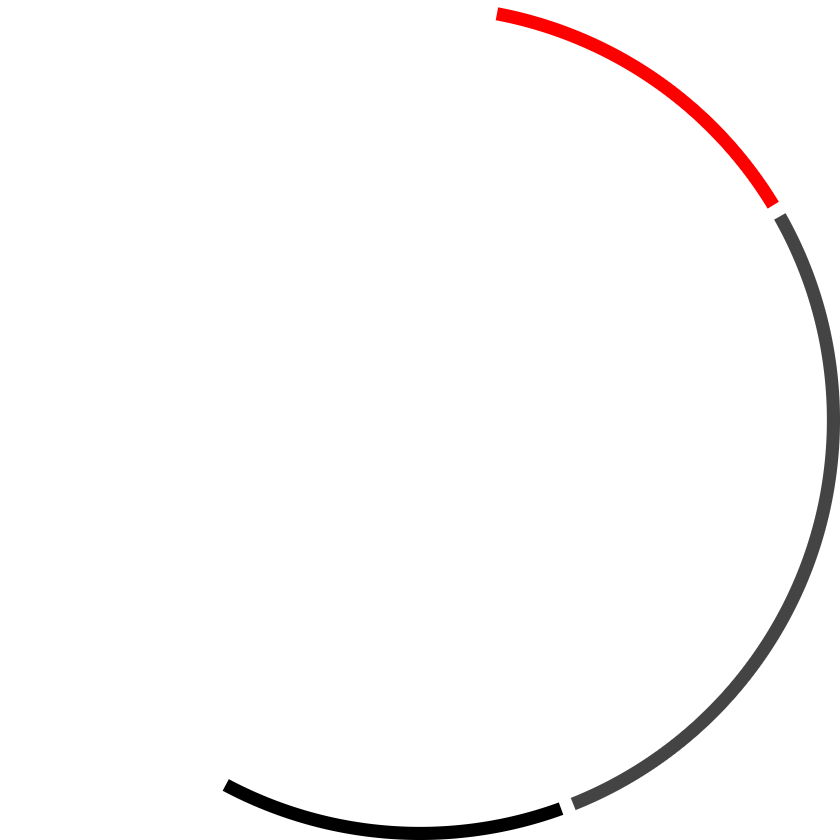
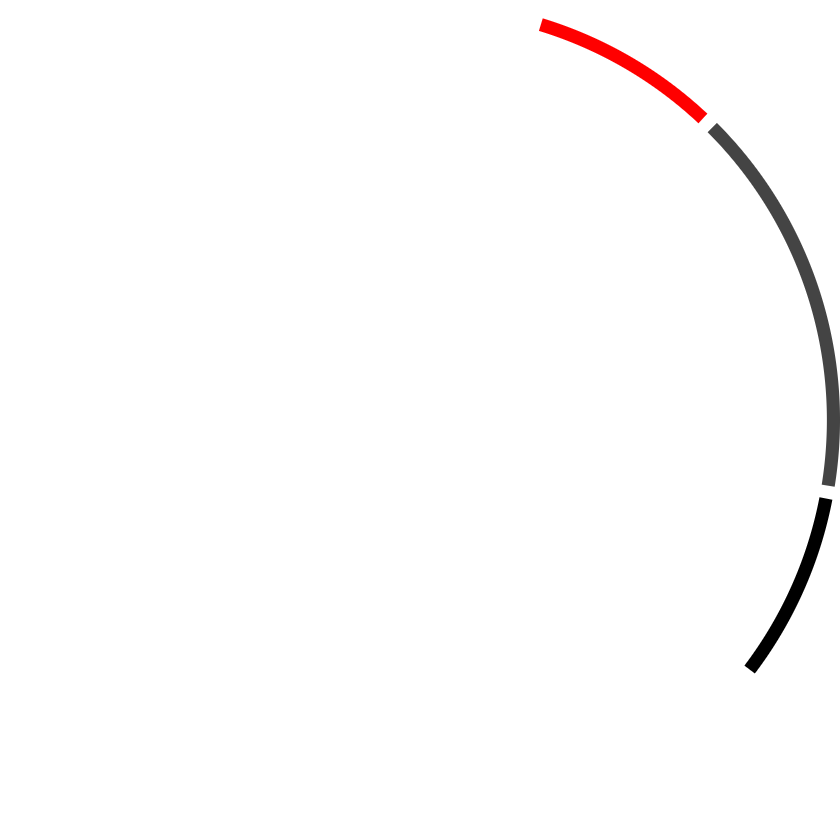
[Rally] Updates to alpha11

diff --git a/Rally/app/src/main/java/com/example/compose/rally/ui/components/RallyAnimatedCircle.kt b/Rally/app/src/main/java/com/example/compose/rally/ui/components/RallyAnimatedCircle.kt
@@ -17,13 +17,15 @@
 package com.example.compose.rally.ui.components
 
 import androidx.compose.animation.core.CubicBezierEasing
-import androidx.compose.animation.core.FloatPropKey
 import androidx.compose.animation.core.LinearOutSlowInEasing
-import androidx.compose.animation.core.transitionDefinition
+import androidx.compose.animation.core.MutableTransitionState
+import androidx.compose.animation.core.animateFloat
 import androidx.compose.animation.core.tween
-import androidx.compose.animation.transition
+import androidx.compose.animation.core.updateTransition
 import androidx.compose.foundation.Canvas
 import androidx.compose.runtime.Composable
+import androidx.compose.runtime.getValue
+import androidx.compose.runtime.remember
 import androidx.compose.ui.Modifier
 import androidx.compose.ui.geometry.Offset
 import androidx.compose.ui.geometry.Size
@@ -33,8 +35,6 @@ import androidx.compose.ui.platform.AmbientDensity
 import androidx.compose.ui.unit.dp
 
 private const val DividerLengthInDegrees = 1.8f
-private val AngleOffset = FloatPropKey("angle")
-private val Shift = FloatPropKey("shift")
 
 /**
  * A donut chart that animates when loaded.
@@ -45,12 +45,43 @@ fun AnimatedCircle(
     colors: List<Color>,
     modifier: Modifier = Modifier
 ) {
+    val currentState = remember {
+        MutableTransitionState(AnimatedCircleProgress.START)
+            .apply { targetState = AnimatedCircleProgress.END }
+    }
     val stroke = with(AmbientDensity.current) { Stroke(5.dp.toPx()) }
-    val state = transition(
-        definition = CircularTransition,
-        initState = AnimatedCircleProgress.START,
-        toState = AnimatedCircleProgress.END
-    )
+    val transition = updateTransition(currentState)
+    val angleOffset by transition.animateFloat(
+        transitionSpec = {
+            tween(
+                delayMillis = 500,
+                durationMillis = 900,
+                easing = LinearOutSlowInEasing
+            )
+        }
+    ) { progress ->
+        if (progress == AnimatedCircleProgress.START) {
+            0f
+        } else {
+            360f
+        }
+    }
+    val shift by transition.animateFloat(
+        transitionSpec = {
+            tween(
+                delayMillis = 500,
+                durationMillis = 900,
+                easing = CubicBezierEasing(0f, 0.75f, 0.35f, 0.85f)
+            )
+        }
+    ) { progress ->
+        if (progress == AnimatedCircleProgress.START) {
+            0f
+        } else {
+            30f
+        }
+    }
+
     Canvas(modifier) {
         val innerRadius = (size.minDimension - stroke.width) / 2
         val halfSize = size / 2.0f
@@ -59,9 +90,9 @@ fun AnimatedCircle(
             halfSize.height - innerRadius
         )
         val size = Size(innerRadius * 2, innerRadius * 2)
-        var startAngle = state[Shift] - 90f
+        var startAngle = shift - 90f
         proportions.forEachIndexed { index, proportion ->
-            val sweep = proportion * state[AngleOffset]
+            val sweep = proportion * angleOffset
             drawArc(
                 color = colors[index],
                 startAngle = startAngle + DividerLengthInDegrees / 2,
@@ -76,26 +107,3 @@ fun AnimatedCircle(
     }
 }
 private enum class AnimatedCircleProgress { START, END }
-
-private val CircularTransition = transitionDefinition<AnimatedCircleProgress> {
-    state(AnimatedCircleProgress.START) {
-        this[AngleOffset] = 0f
-        this[Shift] = 0f
-    }
-    state(AnimatedCircleProgress.END) {
-        this[AngleOffset] = 360f
-        this[Shift] = 30f
-    }
-    transition(fromState = AnimatedCircleProgress.START, toState = AnimatedCircleProgress.END) {
-        AngleOffset using tween(
-            delayMillis = 500,
-            durationMillis = 900,
-            easing = CubicBezierEasing(0f, 0.75f, 0.35f, 0.85f)
-        )
-        Shift using tween(
-            delayMillis = 500,
-            durationMillis = 900,
-            easing = LinearOutSlowInEasing
-        )
-    }
-}

diff --git a/Rally/app/src/main/java/com/example/compose/rally/ui/overview/OverviewScreen.kt b/Rally/app/src/main/java/com/example/compose/rally/ui/overview/OverviewScreen.kt
@@ -16,7 +16,6 @@
 
 package com.example.compose.rally.ui.overview
 
-import androidx.compose.foundation.ScrollableColumn
 import androidx.compose.foundation.background
 import androidx.compose.foundation.layout.Arrangement
 import androidx.compose.foundation.layout.Column
@@ -26,6 +25,8 @@ import androidx.compose.foundation.layout.Spacer
 import androidx.compose.foundation.layout.fillMaxWidth
 import androidx.compose.foundation.layout.padding
 import androidx.compose.foundation.layout.preferredHeight
+import androidx.compose.foundation.rememberScrollState
+import androidx.compose.foundation.verticalScroll
 import androidx.compose.material.Card
 import androidx.compose.material.Icon
 import androidx.compose.material.IconButton
@@ -55,7 +56,11 @@ import com.example.compose.rally.ui.components.formatAmount
 
 @Composable
 fun OverviewBody(onScreenChange: (RallyScreen) -> Unit = {}) {
-    ScrollableColumn(contentPadding = PaddingValues(16.dp)) {
+    Column(
+        modifier = Modifier
+            .padding(16.dp)
+            .verticalScroll(rememberScrollState())
+    ) {
         AlertCard()
         Spacer(Modifier.preferredHeight(RallyDefaultPadding))
         AccountsCard(onScreenChange)
@@ -97,7 +102,9 @@ private fun AlertCard() {
 @Composable
 private fun AlertHeader(onClickSeeAll: () -> Unit) {
     Row(
-        modifier = Modifier.padding(RallyDefaultPadding).fillMaxWidth(),
+        modifier = Modifier
+            .padding(RallyDefaultPadding)
+            .fillMaxWidth(),
         horizontalArrangement = Arrangement.SpaceBetween
     ) {
         Text(
@@ -133,7 +140,7 @@ private fun AlertItem(message: String) {
             onClick = {},
             modifier = Modifier.align(Alignment.Top)
         ) {
-            Icon(Icons.Filled.Sort)
+            Icon(Icons.Filled.Sort, contentDescription = stringResource(id = R.string.sort))
         }
     }
 }
@@ -239,7 +246,9 @@ private fun BillsCard(onScreenChange: (RallyScreen) -> Unit) {
 private fun SeeAllButton(onClick: () -> Unit) {
     TextButton(
         onClick = onClick,
-        modifier = Modifier.preferredHeight(44.dp).fillMaxWidth()
+        modifier = Modifier
+            .preferredHeight(44.dp)
+            .fillMaxWidth()
     ) {
         Text(stringResource(R.string.see_all))
     }

diff --git a/Rally/app/src/main/java/com/example/compose/rally/ui/components/TopAppBar.kt b/Rally/app/src/main/java/com/example/compose/rally/ui/components/TopAppBar.kt
@@ -16,10 +16,11 @@
 
 package com.example.compose.rally.ui.components
 
-import androidx.compose.animation.animateAsState
+import androidx.compose.animation.animateColorAsState
 import androidx.compose.animation.animateContentSize
 import androidx.compose.animation.core.LinearEasing
 import androidx.compose.animation.core.tween
+import androidx.compose.foundation.InteractionState
 import androidx.compose.foundation.layout.Row
 import androidx.compose.foundation.layout.Spacer
 import androidx.compose.foundation.layout.fillMaxWidth
@@ -82,7 +83,7 @@ private fun RallyTab(
             delayMillis = TabFadeInAnimationDelay
         )
     }
-    val tabTintColor by animateAsState(
+    val tabTintColor by animateColorAsState(
         targetValue = if (selected) color else color.copy(alpha = InactiveTabOpacity),
         animationSpec = animSpec
     )
@@ -94,6 +95,7 @@ private fun RallyTab(
             .selectable(
                 selected = selected,
                 onClick = onSelected,
+                interactionState = remember { InteractionState() },
                 indication = rememberRipple(
                     bounded = false,
                     radius = Dp.Unspecified,
@@ -101,7 +103,7 @@ private fun RallyTab(
                 )
             )
     ) {
-        Icon(imageVector = icon, tint = tabTintColor)
+        Icon(imageVector = icon, contentDescription = null, tint = tabTintColor)
         if (selected) {
             Spacer(Modifier.preferredWidth(12.dp))
             Text(text, color = tabTintColor)

diff --git a/Rally/app/src/main/java/com/example/compose/rally/ui/components/DetailsScreen.kt b/Rally/app/src/main/java/com/example/compose/rally/ui/components/DetailsScreen.kt
@@ -16,13 +16,14 @@
 
 package com.example.compose.rally.ui.components
 
-import androidx.compose.foundation.ScrollableColumn
 import androidx.compose.foundation.layout.Box
 import androidx.compose.foundation.layout.Column
 import androidx.compose.foundation.layout.Spacer
 import androidx.compose.foundation.layout.fillMaxWidth
 import androidx.compose.foundation.layout.padding
 import androidx.compose.foundation.layout.preferredHeight
+import androidx.compose.foundation.rememberScrollState
+import androidx.compose.foundation.verticalScroll
 import androidx.compose.material.Card
 import androidx.compose.material.MaterialTheme
 import androidx.compose.material.Text
@@ -44,14 +45,17 @@ fun <T> StatementBody(
     circleLabel: String,
     rows: @Composable (T) -> Unit
 ) {
-    ScrollableColumn {
+    Column(modifier = Modifier.verticalScroll(rememberScrollState())) {
         Box(Modifier.padding(16.dp)) {
             val accountsProportion = items.extractProportions { amounts(it) }
             val circleColors = items.map { colors(it) }
             AnimatedCircle(
                 accountsProportion,
                 circleColors,
-                Modifier.preferredHeight(300.dp).align(Alignment.Center).fillMaxWidth()
+                Modifier
+                    .preferredHeight(300.dp)
+                    .align(Alignment.Center)
+                    .fillMaxWidth()
             )
             Column(modifier = Modifier.align(Alignment.Center)) {
                 Text(

diff --git a/Rally/app/src/main/java/com/example/compose/rally/ui/theme/RallyTheme.kt b/Rally/app/src/main/java/com/example/compose/rally/ui/theme/RallyTheme.kt
@@ -23,21 +23,21 @@ import androidx.compose.runtime.Composable
 import androidx.compose.ui.graphics.Color
 import androidx.compose.ui.graphics.compositeOver
 import androidx.compose.ui.text.TextStyle
+import androidx.compose.ui.text.font.Font
+import androidx.compose.ui.text.font.FontFamily
 import androidx.compose.ui.text.font.FontWeight
-import androidx.compose.ui.text.font.font
-import androidx.compose.ui.text.font.fontFamily
 import androidx.compose.ui.unit.em
 import androidx.compose.ui.unit.sp
 import com.example.compose.rally.R
 
-private val EczarFontFamily = fontFamily(
-    font(R.font.eczar_regular),
-    font(R.font.eczar_semibold, FontWeight.SemiBold)
+private val EczarFontFamily = FontFamily(
+    Font(R.font.eczar_regular),
+    Font(R.font.eczar_semibold, FontWeight.SemiBold)
 )
-private val RobotoCondensed = fontFamily(
-    font(R.font.robotocondensed_regular),
-    font(R.font.robotocondensed_light, FontWeight.Light),
-    font(R.font.robotocondensed_bold, FontWeight.Bold)
+private val RobotoCondensed = FontFamily(
+    Font(R.font.robotocondensed_regular),
+    Font(R.font.robotocondensed_light, FontWeight.Light),
+    Font(R.font.robotocondensed_bold, FontWeight.Bold)
 )
 
 /**

diff --git a/Rally/buildSrc/src/main/java/com/example/compose/rally/buildsrc/dependencies.kt b/Rally/buildSrc/src/main/java/com/example/compose/rally/buildsrc/dependencies.kt
@@ -29,7 +29,7 @@ object Libs {
     const val material = "com.google.android.material:material:1.1.0"
 
     object Kotlin {
-        private const val version = "1.4.21"
+        private const val version = "1.4.21-2"
         const val stdlib = "org.jetbrains.kotlin:kotlin-stdlib-jdk8:$version"
         const val gradlePlugin = "org.jetbrains.kotlin:kotlin-gradle-plugin:$version"
         const val extensions = "org.jetbrains.kotlin:kotlin-android-extensions:$version"
@@ -47,8 +47,8 @@ object Libs {
         const val coreKtx = "androidx.core:core-ktx:1.5.0-alpha02"
 
         object Compose {
-            const val snapshot = ""
-            const val version = "1.0.0-alpha10"
+            const val snapshot = "7094152"
+            const val version = "1.0.0-SNAPSHOT"
 
             const val core = "androidx.compose.ui:ui:$version"
             const val foundation = "androidx.compose.foundation:foundation:$version"

diff --git a/Rally/app/src/androidTest/java/com/example/compose/rally/AnimatingCircleTests.kt b/Rally/app/src/androidTest/java/com/example/compose/rally/AnimatingCircleTests.kt
@@ -76,13 +76,13 @@ class AnimatingCircleTests {
 
     private fun compareTimeScreenshot(timeMs: Long, goldenName: String) {
         // Start with a paused clock
-        composeTestRule.clockTestRule.pauseClock()
+        composeTestRule.mainClock.autoAdvance = false
 
         // Start the unit under test
         showAnimatedCircle()
 
         // Advance clock (keeping it paused)
-        composeTestRule.clockTestRule.advanceClock(timeMs)
+        composeTestRule.mainClock.advanceTimeBy(timeMs)
 
         // Take screenshot and compare with golden image in androidTest/assets
         assertScreenshotMatchesGolden(goldenName, composeTestRule.onRoot())

diff --git a/Rally/app/src/main/java/com/example/compose/rally/ui/components/CommonUi.kt b/Rally/app/src/main/java/com/example/compose/rally/ui/components/CommonUi.kt
@@ -117,6 +117,7 @@ private fun BaseRow(
         Providers(AmbientContentAlpha provides ContentAlpha.medium) {
             Icon(
                 imageVector = Icons.Filled.ChevronRight,
+                contentDescription = null,
                 modifier = Modifier
                     .padding(end = 12.dp)
                     .preferredSize(24.dp)
